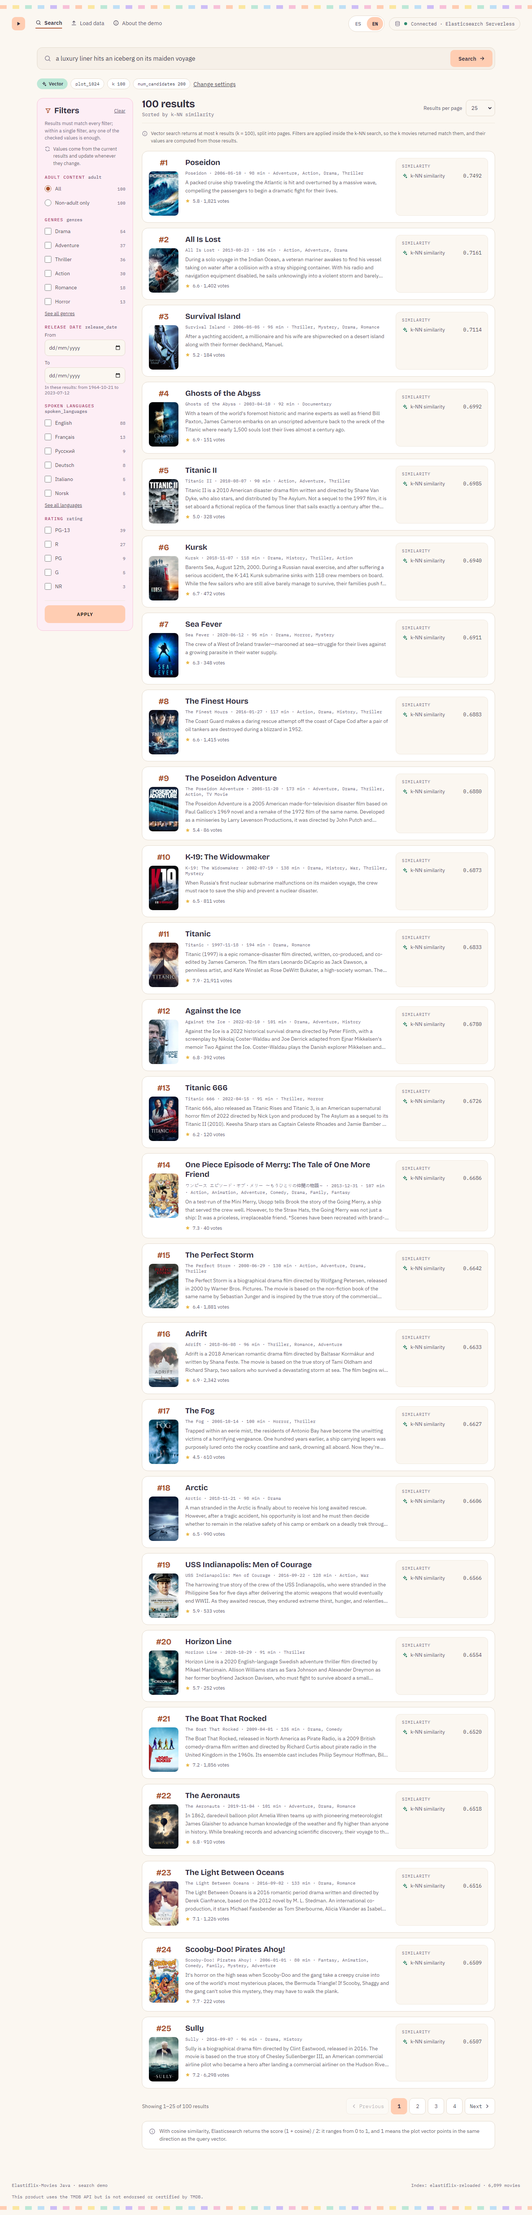
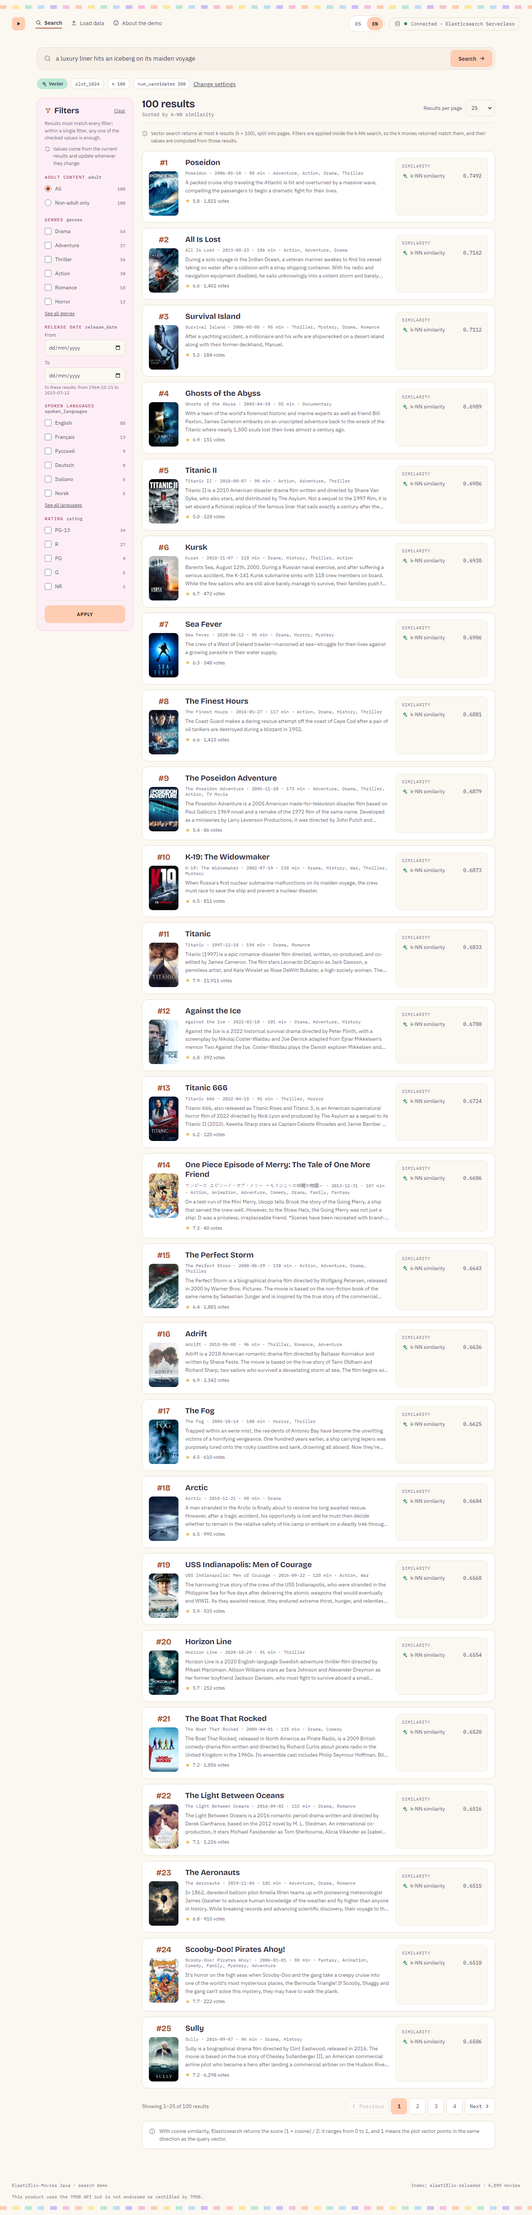
Medición final tras recargar el catálogo con el mapping del repo
El índice publicado se recargó desde data/ (_01 en bulk y _02 a _07 en
append), así que poster_path ya es keyword y enrichment viene del mapping.
Los vectores se generaron de nuevo y el k-NN aproximado movió algunas cifras.

- Harness: 9 juicios nuevos y mínimos de eval/thresholds.json con la medición
  sobre el índice nuevo.
- README, «Acerca de», mockups y pruebas de página con esa medición
  (plot_256 queda 13 de 40 en 1.er lugar; plot_1024, nDCG@10 0.742).
- Sugerencias de Inicio: Inception 35.º con plot_512 en español y Titanic 90.º
  con plot_256 en inglés.
- Capturas de solo lectura rehechas.

Changed region(s): [[0.2812, 0.8121, 0.6562, 0.8746], [0.6875, 0.8121, 0.7188, 0.8746]]

diff --git a/design/mockups/About.dc.html b/design/mockups/About.dc.html
@@ -185,20 +185,20 @@ a{color:#3A3548}a:hover{color:#A9502A}
 <table style="width: 100%; min-width: 560px; border-collapse: collapse; font-size: 15px">
 <thead><tr style="text-align: left"><th scope="col" style="padding: 12px 16px; font-family: 'IBM Plex Mono', monospace; font-size: 12px; font-weight: 500; letter-spacing: 0.08em; text-transform: uppercase; color: #6B6578">Campo</th><th scope="col" style="padding: 12px 16px; font-family: 'IBM Plex Mono', monospace; font-size: 12px; font-weight: 500; letter-spacing: 0.08em; text-transform: uppercase; color: #6B6578">Correcta en 1.er lugar</th><th scope="col" style="padding: 12px 16px; font-family: 'IBM Plex Mono', monospace; font-size: 12px; font-weight: 500; letter-spacing: 0.08em; text-transform: uppercase; color: #6B6578">Entre las 5 primeras</th><th scope="col" style="padding: 12px 16px; font-family: 'IBM Plex Mono', monospace; font-size: 12px; font-weight: 500; letter-spacing: 0.08em; text-transform: uppercase; color: #6B6578">Entre las 10 primeras</th><th scope="col" style="padding: 12px 16px; font-family: 'IBM Plex Mono', monospace; font-size: 12px; font-weight: 500; letter-spacing: 0.08em; text-transform: uppercase; color: #6B6578">MRR@10</th><th scope="col" style="padding: 12px 16px; font-family: 'IBM Plex Mono', monospace; font-size: 12px; font-weight: 500; letter-spacing: 0.08em; text-transform: uppercase; color: #6B6578">nDCG@10</th></tr></thead>
 <tbody>
-<tr style="border-top: 1px solid #EFE7DC"><td style="padding: 12px 16px; font-family: 'IBM Plex Mono', monospace; color: #3A3548">plot_256</td><td style="padding: 12px 16px; color: #585266">12 de 40 (30 %)</td><td style="padding: 12px 16px; color: #585266">23</td><td style="padding: 12px 16px; color: #585266">27</td><td style="padding: 12px 16px; color: #585266">0.506</td><td style="padding: 12px 16px; color: #585266">0.524</td></tr>
-<tr style="border-top: 1px solid #EFE7DC"><td style="padding: 12px 16px; font-family: 'IBM Plex Mono', monospace; color: #3A3548">plot_512</td><td style="padding: 12px 16px; color: #585266">17 de 40 (43 %)</td><td style="padding: 12px 16px; color: #585266">29</td><td style="padding: 12px 16px; color: #585266">32</td><td style="padding: 12px 16px; color: #585266">0.657</td><td style="padding: 12px 16px; color: #585266">0.652</td></tr>
-<tr style="border-top: 1px solid #EFE7DC"><td style="padding: 12px 16px; font-family: 'IBM Plex Mono', monospace; color: #3A3548">plot_1024</td><td style="padding: 12px 16px; color: #585266">23 de 40 (58 %)</td><td style="padding: 12px 16px; color: #585266">33</td><td style="padding: 12px 16px; color: #585266">37</td><td style="padding: 12px 16px; color: #585266">0.755</td><td style="padding: 12px 16px; color: #585266">0.743</td></tr>
+<tr style="border-top: 1px solid #EFE7DC"><td style="padding: 12px 16px; font-family: 'IBM Plex Mono', monospace; color: #3A3548">plot_256</td><td style="padding: 12px 16px; color: #585266">13 de 40 (33 %)</td><td style="padding: 12px 16px; color: #585266">24</td><td style="padding: 12px 16px; color: #585266">28</td><td style="padding: 12px 16px; color: #585266">0.536</td><td style="padding: 12px 16px; color: #585266">0.549</td></tr>
+<tr style="border-top: 1px solid #EFE7DC"><td style="padding: 12px 16px; font-family: 'IBM Plex Mono', monospace; color: #3A3548">plot_512</td><td style="padding: 12px 16px; color: #585266">17 de 40 (43 %)</td><td style="padding: 12px 16px; color: #585266">29</td><td style="padding: 12px 16px; color: #585266">32</td><td style="padding: 12px 16px; color: #585266">0.653</td><td style="padding: 12px 16px; color: #585266">0.651</td></tr>
+<tr style="border-top: 1px solid #EFE7DC"><td style="padding: 12px 16px; font-family: 'IBM Plex Mono', monospace; color: #3A3548">plot_1024</td><td style="padding: 12px 16px; color: #585266">23 de 40 (58 %)</td><td style="padding: 12px 16px; color: #585266">33</td><td style="padding: 12px 16px; color: #585266">37</td><td style="padding: 12px 16px; color: #585266">0.755</td><td style="padding: 12px 16px; color: #585266">0.742</td></tr>
 </tbody>
 </table>
 </div>
 
-<p style="margin: 0; font-size: 14px; line-height: 1.6; color: #585266">El MRR premia que la película correcta quede arriba: vale 1 si siempre sale 1.ª y 0.5 si siempre sale 2.ª; el nDCG también premia las otras películas relevantes. En 15 de las 40 consultas la posición es la misma en los tres campos; estas son algunas de las que más cambian:</p>
+<p style="margin: 0; font-size: 14px; line-height: 1.6; color: #585266">El MRR premia que la película correcta quede arriba: vale 1 si siempre sale 1.ª y 0.5 si siempre sale 2.ª; el nDCG también premia las otras películas relevantes. En 16 de las 40 consultas la posición es la misma en los tres campos; estas son algunas de las que más cambian:</p>
 <div style="overflow-x: auto; background: #FFFFFF; border: 1px solid #BDE8D7; border-radius: 12px">
 <table style="width: 100%; min-width: 480px; border-collapse: collapse; font-size: 15px">
 <thead><tr style="text-align: left"><th scope="col" style="padding: 12px 16px; font-family: 'IBM Plex Mono', monospace; font-size: 12px; font-weight: 500; letter-spacing: 0.08em; text-transform: uppercase; color: #6B6578">Película</th><th scope="col" style="padding: 12px 16px; font-family: 'IBM Plex Mono', monospace; font-size: 12px; font-weight: 500; letter-spacing: 0.08em; text-transform: uppercase; color: #6B6578">plot_256</th><th scope="col" style="padding: 12px 16px; font-family: 'IBM Plex Mono', monospace; font-size: 12px; font-weight: 500; letter-spacing: 0.08em; text-transform: uppercase; color: #6B6578">plot_512</th><th scope="col" style="padding: 12px 16px; font-family: 'IBM Plex Mono', monospace; font-size: 12px; font-weight: 500; letter-spacing: 0.08em; text-transform: uppercase; color: #6B6578">plot_1024</th></tr></thead>
 <tbody>
 <tr style="border-top: 1px solid #EFE7DC"><td style="padding: 12px 16px; font-family: 'IBM Plex Mono', monospace; color: #3A3548">Titanic</td><td style="padding: 12px 16px; color: #585266">fuera de las 10 primeras</td><td style="padding: 12px 16px; color: #585266">fuera de las 10 primeras</td><td style="padding: 12px 16px; color: #585266">7.º</td></tr>
-<tr style="border-top: 1px solid #EFE7DC"><td style="padding: 12px 16px; font-family: 'IBM Plex Mono', monospace; color: #3A3548">Spirited Away</td><td style="padding: 12px 16px; color: #585266">fuera de las 10 primeras</td><td style="padding: 12px 16px; color: #585266">10.º</td><td style="padding: 12px 16px; color: #585266">1.º</td></tr>
+<tr style="border-top: 1px solid #EFE7DC"><td style="padding: 12px 16px; font-family: 'IBM Plex Mono', monospace; color: #3A3548">Spirited Away</td><td style="padding: 12px 16px; color: #585266">fuera de las 10 primeras</td><td style="padding: 12px 16px; color: #585266">9.º</td><td style="padding: 12px 16px; color: #585266">1.º</td></tr>
 <tr style="border-top: 1px solid #EFE7DC"><td style="padding: 12px 16px; font-family: 'IBM Plex Mono', monospace; color: #3A3548">Life of Pi</td><td style="padding: 12px 16px; color: #585266">fuera de las 10 primeras</td><td style="padding: 12px 16px; color: #585266">fuera de las 10 primeras</td><td style="padding: 12px 16px; color: #585266">7.º</td></tr>
 <tr style="border-top: 1px solid #EFE7DC"><td style="padding: 12px 16px; font-family: 'IBM Plex Mono', monospace; color: #3A3548">The Lion King</td><td style="padding: 12px 16px; color: #585266">7.º</td><td style="padding: 12px 16px; color: #585266">1.º</td><td style="padding: 12px 16px; color: #585266">1.º</td></tr>
 <tr style="border-top: 1px solid #EFE7DC"><td style="padding: 12px 16px; font-family: 'IBM Plex Mono', monospace; color: #3A3548">Shrek</td><td style="padding: 12px 16px; color: #585266">7.º</td><td style="padding: 12px 16px; color: #585266">1.º</td><td style="padding: 12px 16px; color: #585266">1.º</td></tr>

diff --git a/design/mockups/About-en.dc.html b/design/mockups/About-en.dc.html
@@ -185,20 +185,20 @@ a{color:#3A3548}a:hover{color:#A9502A}
 <table style="width: 100%; min-width: 560px; border-collapse: collapse; font-size: 15px">
 <thead><tr style="text-align: left"><th scope="col" style="padding: 12px 16px; font-family: 'IBM Plex Mono', monospace; font-size: 12px; font-weight: 500; letter-spacing: 0.08em; text-transform: uppercase; color: #6B6578">Field</th><th scope="col" style="padding: 12px 16px; font-family: 'IBM Plex Mono', monospace; font-size: 12px; font-weight: 500; letter-spacing: 0.08em; text-transform: uppercase; color: #6B6578">Correct at rank 1</th><th scope="col" style="padding: 12px 16px; font-family: 'IBM Plex Mono', monospace; font-size: 12px; font-weight: 500; letter-spacing: 0.08em; text-transform: uppercase; color: #6B6578">In the top 5</th><th scope="col" style="padding: 12px 16px; font-family: 'IBM Plex Mono', monospace; font-size: 12px; font-weight: 500; letter-spacing: 0.08em; text-transform: uppercase; color: #6B6578">In the top 10</th><th scope="col" style="padding: 12px 16px; font-family: 'IBM Plex Mono', monospace; font-size: 12px; font-weight: 500; letter-spacing: 0.08em; text-transform: uppercase; color: #6B6578">MRR@10</th><th scope="col" style="padding: 12px 16px; font-family: 'IBM Plex Mono', monospace; font-size: 12px; font-weight: 500; letter-spacing: 0.08em; text-transform: uppercase; color: #6B6578">nDCG@10</th></tr></thead>
 <tbody>
-<tr style="border-top: 1px solid #EFE7DC"><td style="padding: 12px 16px; font-family: 'IBM Plex Mono', monospace; color: #3A3548">plot_256</td><td style="padding: 12px 16px; color: #585266">12 of 40 (30%)</td><td style="padding: 12px 16px; color: #585266">23</td><td style="padding: 12px 16px; color: #585266">27</td><td style="padding: 12px 16px; color: #585266">0.506</td><td style="padding: 12px 16px; color: #585266">0.524</td></tr>
-<tr style="border-top: 1px solid #EFE7DC"><td style="padding: 12px 16px; font-family: 'IBM Plex Mono', monospace; color: #3A3548">plot_512</td><td style="padding: 12px 16px; color: #585266">17 of 40 (43%)</td><td style="padding: 12px 16px; color: #585266">29</td><td style="padding: 12px 16px; color: #585266">32</td><td style="padding: 12px 16px; color: #585266">0.657</td><td style="padding: 12px 16px; color: #585266">0.652</td></tr>
-<tr style="border-top: 1px solid #EFE7DC"><td style="padding: 12px 16px; font-family: 'IBM Plex Mono', monospace; color: #3A3548">plot_1024</td><td style="padding: 12px 16px; color: #585266">23 of 40 (58%)</td><td style="padding: 12px 16px; color: #585266">33</td><td style="padding: 12px 16px; color: #585266">37</td><td style="padding: 12px 16px; color: #585266">0.755</td><td style="padding: 12px 16px; color: #585266">0.743</td></tr>
+<tr style="border-top: 1px solid #EFE7DC"><td style="padding: 12px 16px; font-family: 'IBM Plex Mono', monospace; color: #3A3548">plot_256</td><td style="padding: 12px 16px; color: #585266">13 of 40 (33%)</td><td style="padding: 12px 16px; color: #585266">24</td><td style="padding: 12px 16px; color: #585266">28</td><td style="padding: 12px 16px; color: #585266">0.536</td><td style="padding: 12px 16px; color: #585266">0.549</td></tr>
+<tr style="border-top: 1px solid #EFE7DC"><td style="padding: 12px 16px; font-family: 'IBM Plex Mono', monospace; color: #3A3548">plot_512</td><td style="padding: 12px 16px; color: #585266">17 of 40 (43%)</td><td style="padding: 12px 16px; color: #585266">29</td><td style="padding: 12px 16px; color: #585266">32</td><td style="padding: 12px 16px; color: #585266">0.653</td><td style="padding: 12px 16px; color: #585266">0.651</td></tr>
+<tr style="border-top: 1px solid #EFE7DC"><td style="padding: 12px 16px; font-family: 'IBM Plex Mono', monospace; color: #3A3548">plot_1024</td><td style="padding: 12px 16px; color: #585266">23 of 40 (58%)</td><td style="padding: 12px 16px; color: #585266">33</td><td style="padding: 12px 16px; color: #585266">37</td><td style="padding: 12px 16px; color: #585266">0.755</td><td style="padding: 12px 16px; color: #585266">0.742</td></tr>
 </tbody>
 </table>
 </div>
 
-<p style="margin: 0; font-size: 14px; line-height: 1.6; color: #585266">MRR rewards ranking the correct movie near the top: it is 1 if the movie always comes 1st and 0.5 if it always comes 2nd; nDCG also rewards the other relevant movies. In 15 of the 40 queries the rank is the same in all three fields; these are some of the ones that change the most:</p>
+<p style="margin: 0; font-size: 14px; line-height: 1.6; color: #585266">MRR rewards ranking the correct movie near the top: it is 1 if the movie always comes 1st and 0.5 if it always comes 2nd; nDCG also rewards the other relevant movies. In 16 of the 40 queries the rank is the same in all three fields; these are some of the ones that change the most:</p>
 <div style="overflow-x: auto; background: #FFFFFF; border: 1px solid #BDE8D7; border-radius: 12px">
 <table style="width: 100%; min-width: 480px; border-collapse: collapse; font-size: 15px">
 <thead><tr style="text-align: left"><th scope="col" style="padding: 12px 16px; font-family: 'IBM Plex Mono', monospace; font-size: 12px; font-weight: 500; letter-spacing: 0.08em; text-transform: uppercase; color: #6B6578">Movie</th><th scope="col" style="padding: 12px 16px; font-family: 'IBM Plex Mono', monospace; font-size: 12px; font-weight: 500; letter-spacing: 0.08em; text-transform: uppercase; color: #6B6578">plot_256</th><th scope="col" style="padding: 12px 16px; font-family: 'IBM Plex Mono', monospace; font-size: 12px; font-weight: 500; letter-spacing: 0.08em; text-transform: uppercase; color: #6B6578">plot_512</th><th scope="col" style="padding: 12px 16px; font-family: 'IBM Plex Mono', monospace; font-size: 12px; font-weight: 500; letter-spacing: 0.08em; text-transform: uppercase; color: #6B6578">plot_1024</th></tr></thead>
 <tbody>
 <tr style="border-top: 1px solid #EFE7DC"><td style="padding: 12px 16px; font-family: 'IBM Plex Mono', monospace; color: #3A3548">Titanic</td><td style="padding: 12px 16px; color: #585266">outside the top 10</td><td style="padding: 12px 16px; color: #585266">outside the top 10</td><td style="padding: 12px 16px; color: #585266">7th</td></tr>
-<tr style="border-top: 1px solid #EFE7DC"><td style="padding: 12px 16px; font-family: 'IBM Plex Mono', monospace; color: #3A3548">Spirited Away</td><td style="padding: 12px 16px; color: #585266">outside the top 10</td><td style="padding: 12px 16px; color: #585266">10th</td><td style="padding: 12px 16px; color: #585266">1st</td></tr>
+<tr style="border-top: 1px solid #EFE7DC"><td style="padding: 12px 16px; font-family: 'IBM Plex Mono', monospace; color: #3A3548">Spirited Away</td><td style="padding: 12px 16px; color: #585266">outside the top 10</td><td style="padding: 12px 16px; color: #585266">9th</td><td style="padding: 12px 16px; color: #585266">1st</td></tr>
 <tr style="border-top: 1px solid #EFE7DC"><td style="padding: 12px 16px; font-family: 'IBM Plex Mono', monospace; color: #3A3548">Life of Pi</td><td style="padding: 12px 16px; color: #585266">outside the top 10</td><td style="padding: 12px 16px; color: #585266">outside the top 10</td><td style="padding: 12px 16px; color: #585266">7th</td></tr>
 <tr style="border-top: 1px solid #EFE7DC"><td style="padding: 12px 16px; font-family: 'IBM Plex Mono', monospace; color: #3A3548">The Lion King</td><td style="padding: 12px 16px; color: #585266">7th</td><td style="padding: 12px 16px; color: #585266">1st</td><td style="padding: 12px 16px; color: #585266">1st</td></tr>
 <tr style="border-top: 1px solid #EFE7DC"><td style="padding: 12px 16px; font-family: 'IBM Plex Mono', monospace; color: #3A3548">Shrek</td><td style="padding: 12px 16px; color: #585266">7th</td><td style="padding: 12px 16px; color: #585266">1st</td><td style="padding: 12px 16px; color: #585266">1st</td></tr>

diff --git a/src/main/resources/templates/about.html b/src/main/resources/templates/about.html
@@ -101,9 +101,9 @@
                 <tr><th th:text="#{about.common.field}"></th><th th:text="#{about.vector.precision.th.rank1}"></th><th th:text="#{about.vector.precision.th.top5}"></th><th th:text="#{about.vector.precision.th.top10}"></th><th>MRR@10</th><th>nDCG@10</th></tr>
               </thead>
               <tbody>
-                <tr><td>plot_256</td><td th:text="#{about.vector.precision.r256}"></td><td>23</td><td>27</td><td>0.506</td><td>0.524</td></tr>
-                <tr><td>plot_512</td><td th:text="#{about.vector.precision.r512}"></td><td>29</td><td>32</td><td>0.657</td><td>0.652</td></tr>
-                <tr><td>plot_1024</td><td th:text="#{about.vector.precision.r1024}"></td><td>33</td><td>37</td><td>0.755</td><td>0.743</td></tr>
+                <tr><td>plot_256</td><td th:text="#{about.vector.precision.r256}"></td><td>24</td><td>28</td><td>0.536</td><td>0.549</td></tr>
+                <tr><td>plot_512</td><td th:text="#{about.vector.precision.r512}"></td><td>29</td><td>32</td><td>0.653</td><td>0.651</td></tr>
+                <tr><td>plot_1024</td><td th:text="#{about.vector.precision.r1024}"></td><td>33</td><td>37</td><td>0.755</td><td>0.742</td></tr>
               </tbody>
             </table>
           </div>
@@ -113,7 +113,7 @@
               <thead><tr><th th:text="#{about.vector.precision.movie}"></th><th>plot_256</th><th>plot_512</th><th>plot_1024</th></tr></thead>
               <tbody>
                 <tr><td>Titanic</td><td th:text="#{about.vector.rank.out}"></td><td th:text="#{about.vector.rank.out}"></td><td th:text="#{about.vector.rank.7}"></td></tr>
-                <tr><td>Spirited Away</td><td th:text="#{about.vector.rank.out}"></td><td th:text="#{about.vector.rank.10}"></td><td th:text="#{about.vector.rank.1}"></td></tr>
+                <tr><td>Spirited Away</td><td th:text="#{about.vector.rank.out}"></td><td th:text="#{about.vector.rank.9}"></td><td th:text="#{about.vector.rank.1}"></td></tr>
                 <tr><td>Life of Pi</td><td th:text="#{about.vector.rank.out}"></td><td th:text="#{about.vector.rank.out}"></td><td th:text="#{about.vector.rank.7}"></td></tr>
                 <tr><td>The Lion King</td><td th:text="#{about.vector.rank.7}"></td><td th:text="#{about.vector.rank.1}"></td><td th:text="#{about.vector.rank.1}"></td></tr>
                 <tr><td>Shrek</td><td th:text="#{about.vector.rank.7}"></td><td th:text="#{about.vector.rank.1}"></td><td th:text="#{about.vector.rank.1}"></td></tr>

diff --git a/src/test/java/com/bigfito/elastiflix/web/about/AboutPageTest.java b/src/test/java/com/bigfito/elastiflix/web/about/AboutPageTest.java
@@ -61,9 +61,9 @@ class AboutPageTest {
                         "Medido con el harness de relevancia sobre el catálogo de 6 899 películas")))
                 .andExpect(content().string(containsString("ninguna película del catálogo lo es")))
                 .andExpect(content().string(containsString("de 1902 a 2023")))
-                .andExpect(content().string(containsString("12 de 40 (30 %)")))
-                .andExpect(content().string(containsString("0.506")))
-                .andExpect(content().string(containsString("0.657")))
+                .andExpect(content().string(containsString("13 de 40 (33 %)")))
+                .andExpect(content().string(containsString("0.536")))
+                .andExpect(content().string(containsString("0.653")))
                 .andExpect(content().string(containsString("0.755")))
                 .andExpect(content().string(containsString("Créditos")))
                 .andExpect(content().string(containsString(CatalogTexts.TMDB)))
@@ -172,7 +172,7 @@ class AboutPageTest {
                 .andExpect(content().string(containsString("Full-text (lexical)")))
                 .andExpect(content().string(containsString("How relevance is scored: BM25")))
                 .andExpect(content().string(containsString("Measured precision by dimension")))
-                .andExpect(content().string(containsString("12 of 40 (30%)")))
+                .andExpect(content().string(containsString("13 of 40 (33%)")))
                 .andExpect(content().string(containsString("Results and filters")))
                 .andExpect(content().string(containsString("When there are no results")))
                 .andExpect(content().string(containsString("Loading data")))

diff --git a/src/test/java/com/bigfito/elastiflix/web/home/HomePageTest.java b/src/test/java/com/bigfito/elastiflix/web/home/HomePageTest.java
@@ -76,7 +76,7 @@ class HomePageTest {
                 .andExpect(content().string(containsString("Titanic: 10.º lugar")))
                 .andExpect(content().string(containsString("Titanic: 60.º lugar")))
                 .andExpect(content().string(containsString("Life of Pi: 52.º lugar")))
-                .andExpect(content().string(containsString("Inception: 36.º lugar")))
+                .andExpect(content().string(containsString("Inception: 35.º lugar")))
                 .andExpect(content().string(containsString("modo=hibrida")))
                 .andExpect(content().string(containsString("Titanic: 1.º vectorial, 1.º léxico")))
                 .andExpect(content().string(containsString("href=\"/buscar?q=un%20barco%20de%20lujo%20choca%20con%20un"
@@ -99,7 +99,7 @@ class HomePageTest {
                 .andExpect(content().string(containsString("Type the movie you&#39;re looking for before you press Search.")))
                 .andExpect(content().string(containsString("Try these queries")))
                 .andExpect(content().string(containsString("OR: 57 results")))
-                .andExpect(content().string(containsString("Titanic: 87th place")))
+                .andExpect(content().string(containsString("Titanic: 90th place")))
                 .andExpect(content().string(containsString("Titanic: 14th place")))
                 .andExpect(content().string(containsString("Titanic: 11th place")))
                 .andExpect(content().string(containsString("Inception: outside the top 100")))

diff --git a/src/main/java/com/bigfito/elastiflix/web/home/VectorSuggestions.java b/src/main/java/com/bigfito/elastiflix/web/home/VectorSuggestions.java
@@ -25,7 +25,7 @@ final class VectorSuggestions {
             new Example("Titanic", "🚢", "un barco de lujo choca con un iceberg en su viaje inaugural",
                     "60 19 10", false),
             new Example("Inception", "🌀", "un ladrón roba secretos entrando en los sueños de las personas",
-                    "0 36 23", false),
+                    "0 35 23", false),
             new Example(WALL_E, ROBOT, ROBOT_ES, ROBOT_RANKS, false),
             new Example(WALL_E, ROBOT, ROBOT_EN, ROBOT_RANKS, true),
             new Example("Life of Pi", "🐅",
@@ -38,7 +38,7 @@ final class VectorSuggestions {
                     "5 1 1", false));
 
     private static final List<Example> ENGLISH = List.of(
-            new Example("Titanic", "🚢", "a luxury liner hits an iceberg on its maiden voyage", "87 14 11", false),
+            new Example("Titanic", "🚢", "a luxury liner hits an iceberg on its maiden voyage", "90 14 11", false),
             new Example("Inception", "🌀", "a thief steals secrets by entering people's dreams", "0 48 24", false),
             new Example(WALL_E, ROBOT, ROBOT_EN, ROBOT_RANKS, false),
             new Example(WALL_E, ROBOT, ROBOT_ES, ROBOT_RANKS, true),

diff --git a/README.en.md b/README.en.md
@@ -283,9 +283,9 @@ quantization): the only difference is the number of dimensions. **Measured preci
 
 | Field | 🥇 Correct in 1st place | Top 5 | Top 10 | MRR@10 | nDCG@10 |
 |---|---|---|---|---|---|
-| `plot_256` | 12 of 40 (30%) | 23 | 27 | 0.506 | 0.524 |
-| `plot_512` | 17 of 40 (43%) | 29 | 32 | 0.657 | 0.652 |
-| `plot_1024` | 23 of 40 (58%) | 33 | 37 | 0.755 | 0.743 |
+| `plot_256` | 13 of 40 (33%) | 24 | 28 | 0.536 | 0.549 |
+| `plot_512` | 17 of 40 (43%) | 29 | 32 | 0.653 | 0.651 |
+| `plot_1024` | 23 of 40 (58%) | 33 | 37 | 0.755 | 0.742 |
 
 > 1024 dimensions puts the correct movie in the top 5 for 33 of 40 queries; 512 sits in between at half the size, and
 > 256 clearly loses precision. This is measured on the current catalog in `data/`: after 1,641 plots were switched to the
@@ -315,19 +315,19 @@ means the best movies ended up at the top.
 
 | Configuration | Total | es · plot | en · plot | es · title | en · title |
 |---|---|---|---|---|---|
-| `bm25_title` | 0.114 | 0.000 | 0.000 | 0.000 | **0.911** |
-| `bm25_plot` | 0.422 | 0.077 | 0.802 | 0.000 | 0.737 |
-| `knn_plot_1024` | **0.743** | **0.764** | 0.615 | **0.975** | 0.830 |
-| `rrf_title_knn1024` | 0.461 | 0.465 | 0.231 | 0.731 | 0.870 |
-| `rrf_plot_knn1024` | 0.651 | 0.477 | **0.834** | 0.495 | 0.781 |
+| `bm25_title` | 0.113 | 0.000 | 0.000 | 0.000 | **0.904** |
+| `bm25_plot` | 0.423 | 0.077 | 0.805 | 0.000 | 0.737 |
+| `knn_plot_1024` | **0.742** | **0.762** | 0.615 | **0.975** | 0.830 |
+| `rrf_title_knn1024` | 0.464 | 0.485 | 0.228 | 0.745 | 0.823 |
+| `rrf_plot_knn1024` | 0.662 | 0.480 | **0.834** | 0.573 | 0.781 |
 
-- **Plots are in English.** BM25 on `plot` does very well with English descriptions (0.802, more than vector search)
+- **Plots are in English.** BM25 on `plot` does very well with English descriptions (0.805, more than vector search)
   and finds almost nothing in Spanish (0.077). Vector search is multilingual: it finds the movie in both languages
-  (0.764 in Spanish and 0.615 in English).
+  (0.762 in Spanish and 0.615 in English).
 - **BM25 on the title is useful for searching by title in English**, and for nothing else: with plot descriptions it
   doesn't find the movie, and in hybrid search its list pushes the vector list down.
-- **Hybrid with `plot`** is the best with English descriptions (0.834) and clearly beats hybrid with `title` (0.651
-  versus 0.461), but with Spanish queries it falls below vector search alone.
+- **Hybrid with `plot`** is the best with English descriptions (0.834) and clearly beats hybrid with `title` (0.662
+  versus 0.464), but with Spanish queries it falls below vector search alone.
 - Overall, vector search with `plot_1024` is the most even option.
 
 ## 🎛 Results, filters, and pagination

diff --git a/README.md b/README.md
@@ -286,9 +286,9 @@ sin cuantización): la única diferencia es el número de dimensiones. **Precisi
 
 | Campo | 🥇 Correcta en 1.er lugar | Top 5 | Top 10 | MRR@10 | nDCG@10 |
 |---|---|---|---|---|---|
-| `plot_256` | 12 de 40 (30 %) | 23 | 27 | 0.506 | 0.524 |
-| `plot_512` | 17 de 40 (43 %) | 29 | 32 | 0.657 | 0.652 |
-| `plot_1024` | 23 de 40 (58 %) | 33 | 37 | 0.755 | 0.743 |
+| `plot_256` | 13 de 40 (33 %) | 24 | 28 | 0.536 | 0.549 |
+| `plot_512` | 17 de 40 (43 %) | 29 | 32 | 0.653 | 0.651 |
+| `plot_1024` | 23 de 40 (58 %) | 33 | 37 | 0.755 | 0.742 |
 
 > 1024 dimensiones pone la película correcta entre las 5 primeras en 33 de 40 consultas; 512 queda en medio con la
 > mitad del tamaño y 256 pierde precisión de forma clara. La medición es del catálogo actual de `data/`: al pasar 1 641
@@ -319,19 +319,19 @@ mejores películas quedaron arriba.
 
 | Configuración | Total | es · trama | en · trama | es · título | en · título |
 |---|---|---|---|---|---|
-| `bm25_title` | 0.114 | 0.000 | 0.000 | 0.000 | **0.911** |
-| `bm25_plot` | 0.422 | 0.077 | 0.802 | 0.000 | 0.737 |
-| `knn_plot_1024` | **0.743** | **0.764** | 0.615 | **0.975** | 0.830 |
-| `rrf_title_knn1024` | 0.461 | 0.465 | 0.231 | 0.731 | 0.870 |
-| `rrf_plot_knn1024` | 0.651 | 0.477 | **0.834** | 0.495 | 0.781 |
+| `bm25_title` | 0.113 | 0.000 | 0.000 | 0.000 | **0.904** |
+| `bm25_plot` | 0.423 | 0.077 | 0.805 | 0.000 | 0.737 |
+| `knn_plot_1024` | **0.742** | **0.762** | 0.615 | **0.975** | 0.830 |
+| `rrf_title_knn1024` | 0.464 | 0.485 | 0.228 | 0.745 | 0.823 |
+| `rrf_plot_knn1024` | 0.662 | 0.480 | **0.834** | 0.573 | 0.781 |
 
-- **Las sinopsis están en inglés.** BM25 sobre `plot` es muy bueno con descripciones en inglés (0.802, más que la
+- **Las sinopsis están en inglés.** BM25 sobre `plot` es muy bueno con descripciones en inglés (0.805, más que la
   vectorial) y casi no encuentra nada en español (0.077). La vectorial es multilingüe: encuentra la película en los
-  dos idiomas (0.764 en español y 0.615 en inglés).
+  dos idiomas (0.762 en español y 0.615 en inglés).
 - **BM25 sobre el título sirve para buscar por título en inglés**, y para nada más: con descripciones de la trama no
   encuentra la película, y en la híbrida su lista desplaza a la vectorial.
 - **La híbrida con `plot`** es la mejor con descripciones en inglés (0.834) y supera con claridad a la híbrida con
-  `title` (0.651 contra 0.461), pero con consultas en español queda por debajo de la vectorial sola.
+  `title` (0.662 contra 0.464), pero con consultas en español queda por debajo de la vectorial sola.
 - En conjunto, la vectorial con `plot_1024` es la opción más pareja.
 
 ## 🎛 Resultados, filtros y paginación
